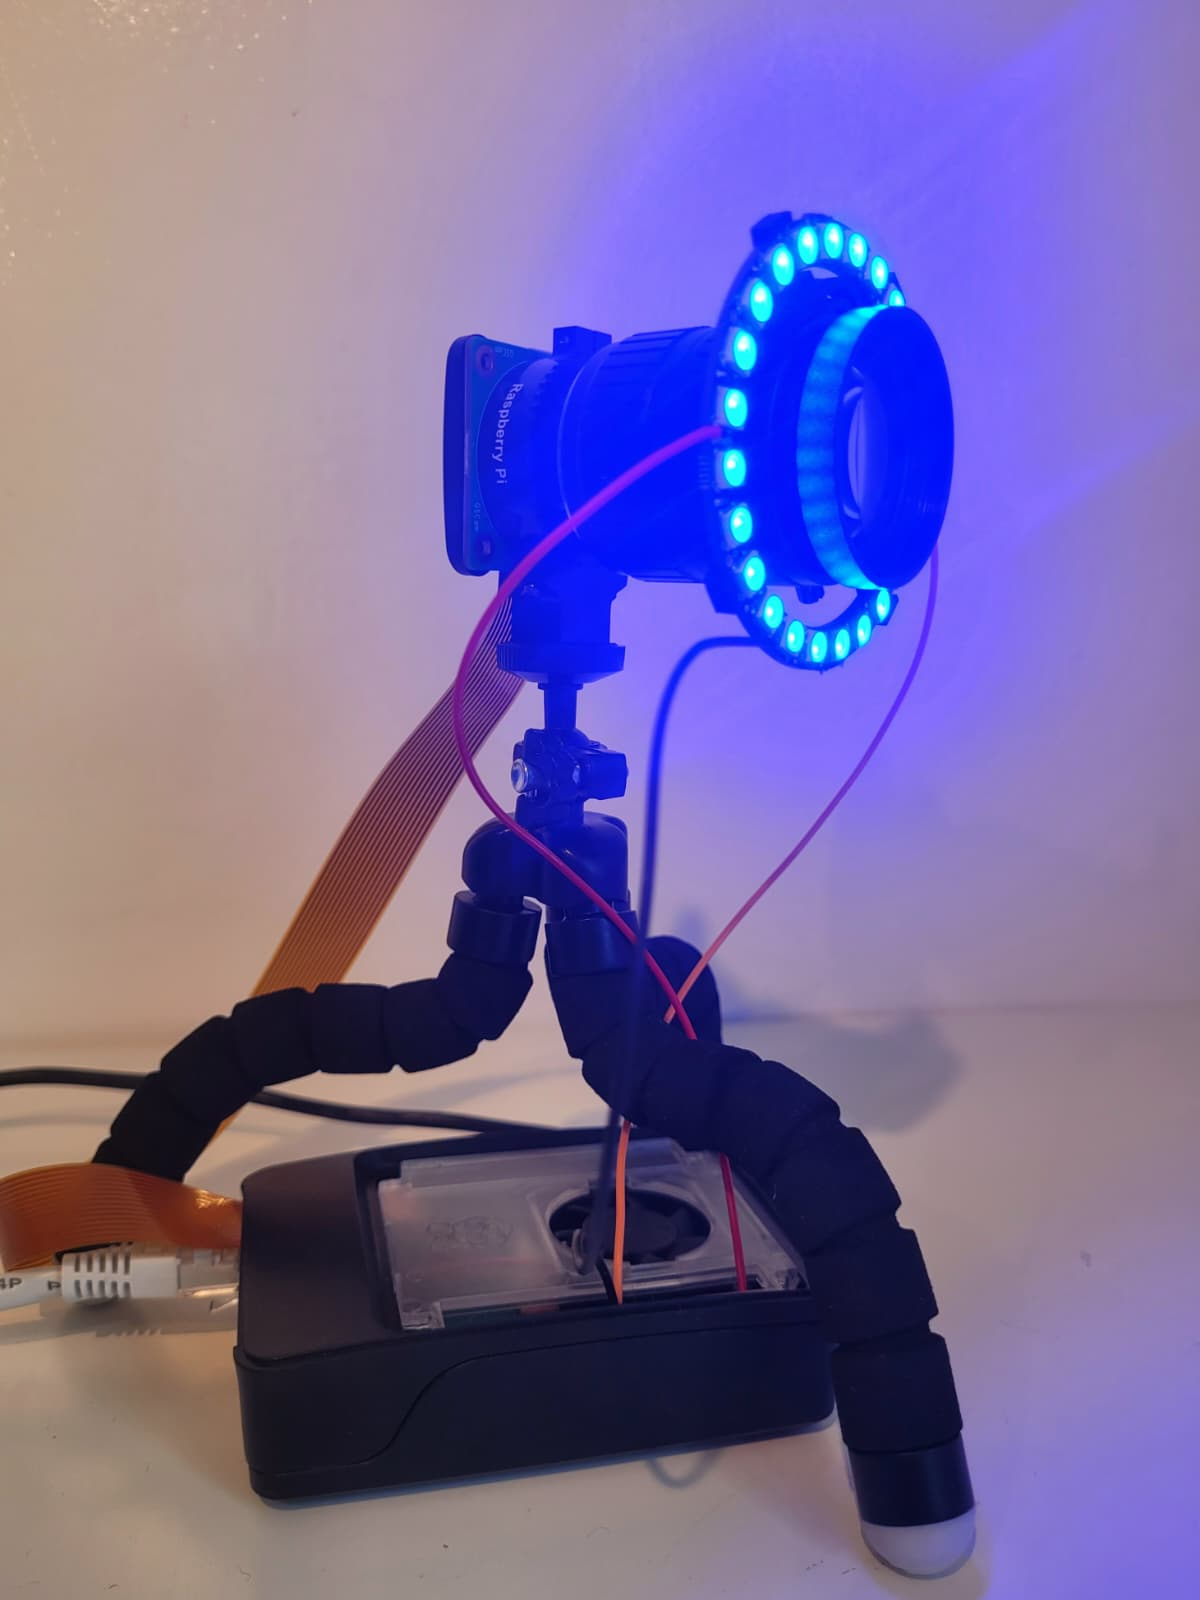
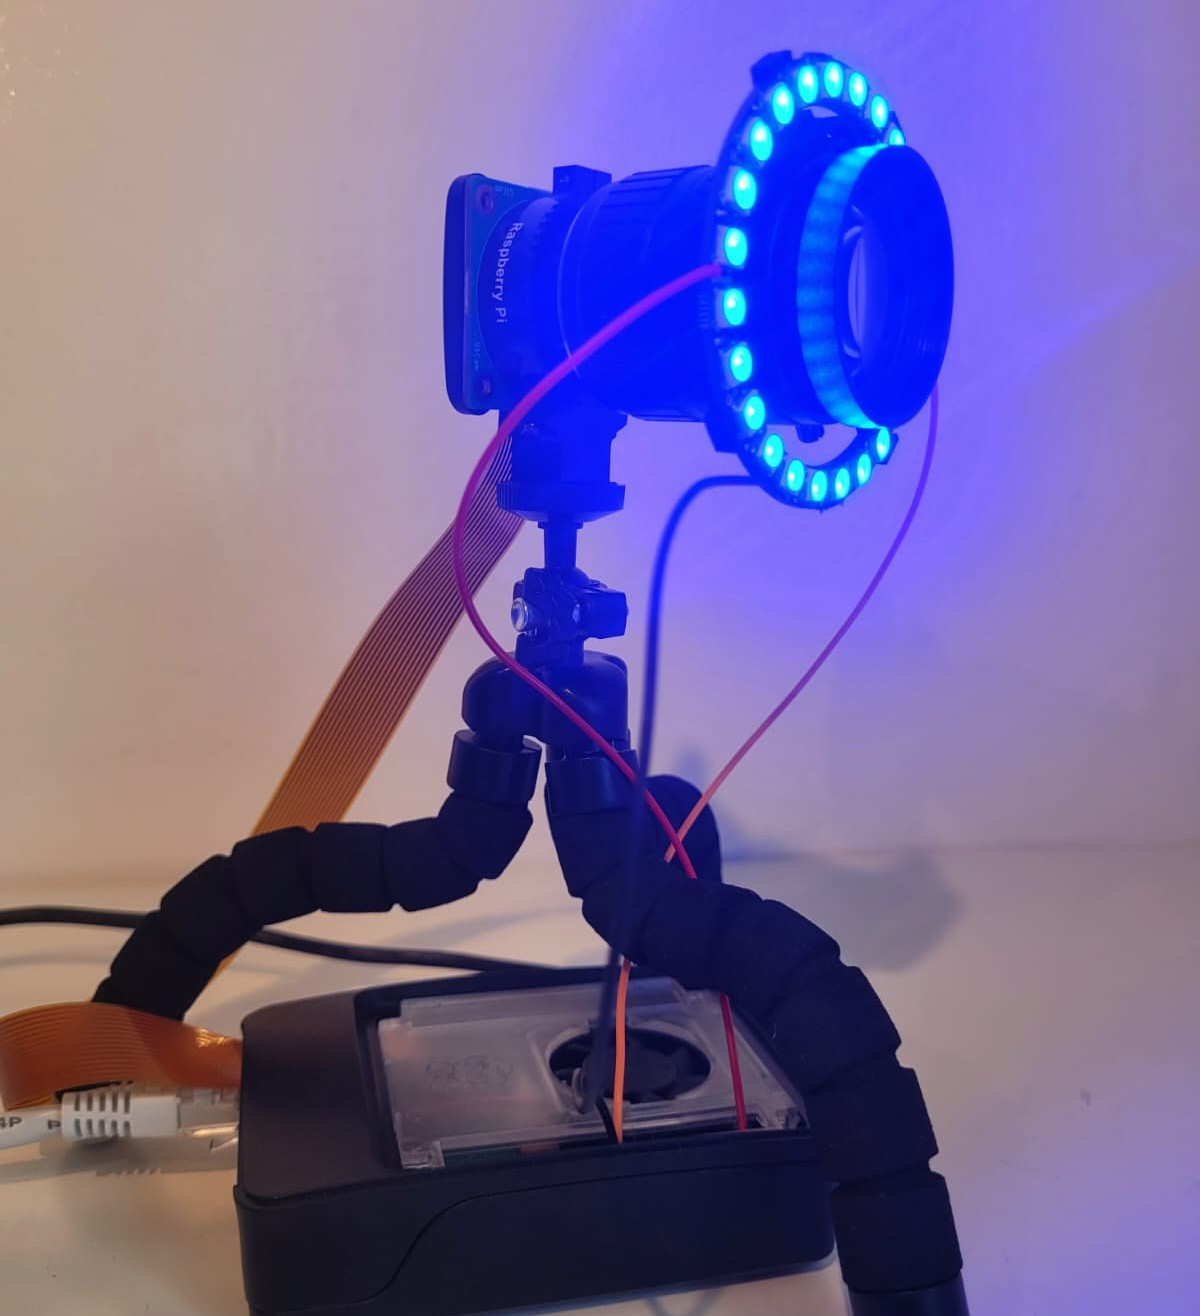
Picture Test README

Changed region(s): [[0.0, 0.0, 0.925, 1.0], [0.8633, 0.2492, 0.9867, 0.3427], [0.74, 0.0, 0.8942, 0.0623]]

diff --git a/README.md b/README.md
@@ -11,8 +11,6 @@
 
 Das Projekt rpicam-reflector-tracking dient dazu, mit einem **Raspberry Pi** kamerabasiert und in Echtzeit die Position eines **retroreflektiven Markers** zu verfolgen. Es stellt verschiedene **Schnittstellen** zur Übertragung der ermittelten Position zur Verfügung.
 
-![Kamera mit Objektiv und blau leuchtendem LED-Ring auf einem Stativ, verbunden mit einem Raspberry Pi 5](/images/camera_tripod_setup_diagonal.jpeg)
-
 <picture>
 <img src="/images/camera_tripod_setup_diagonal.jpeg" alt="Kamera mit Objektiv und blau leuchtendem LED-Ring auf einem Stativ, verbunden mit einem Raspberry Pi 5" width="50%">
 </picture>